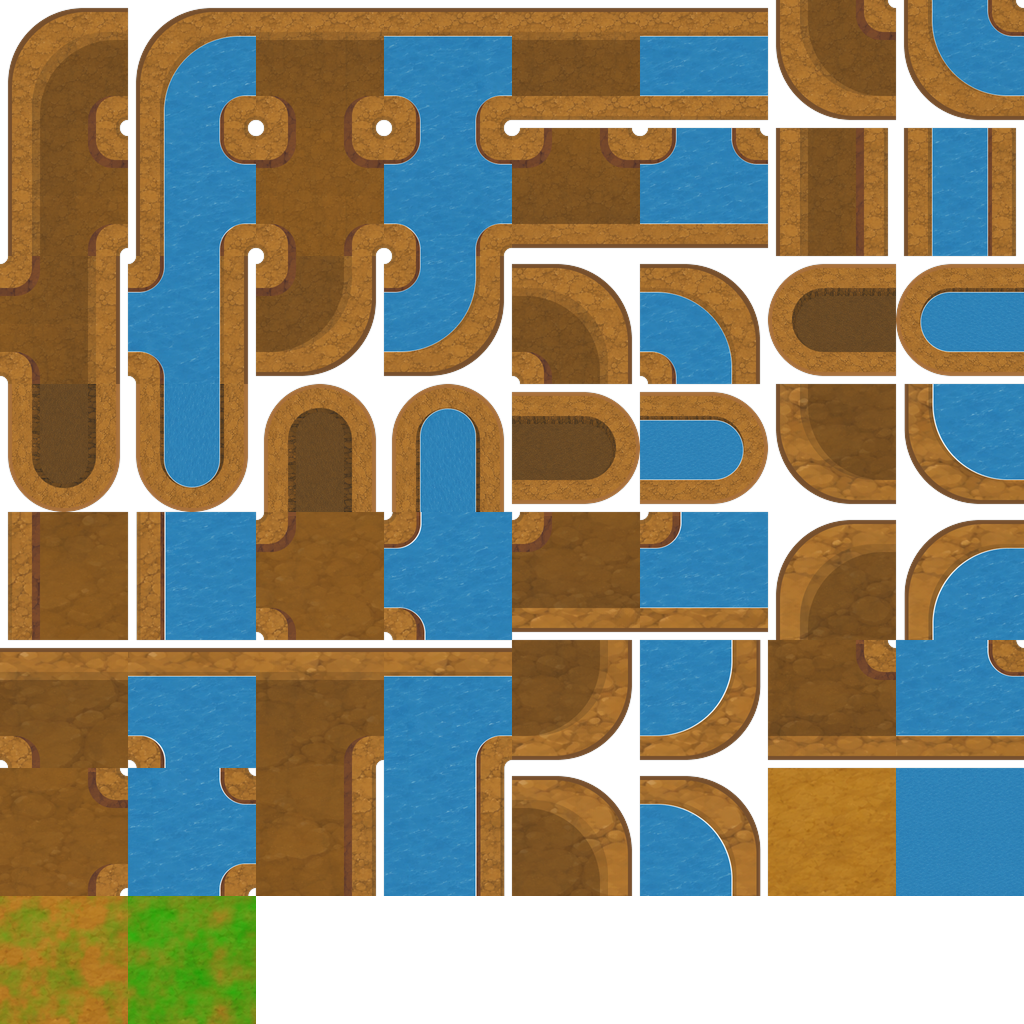
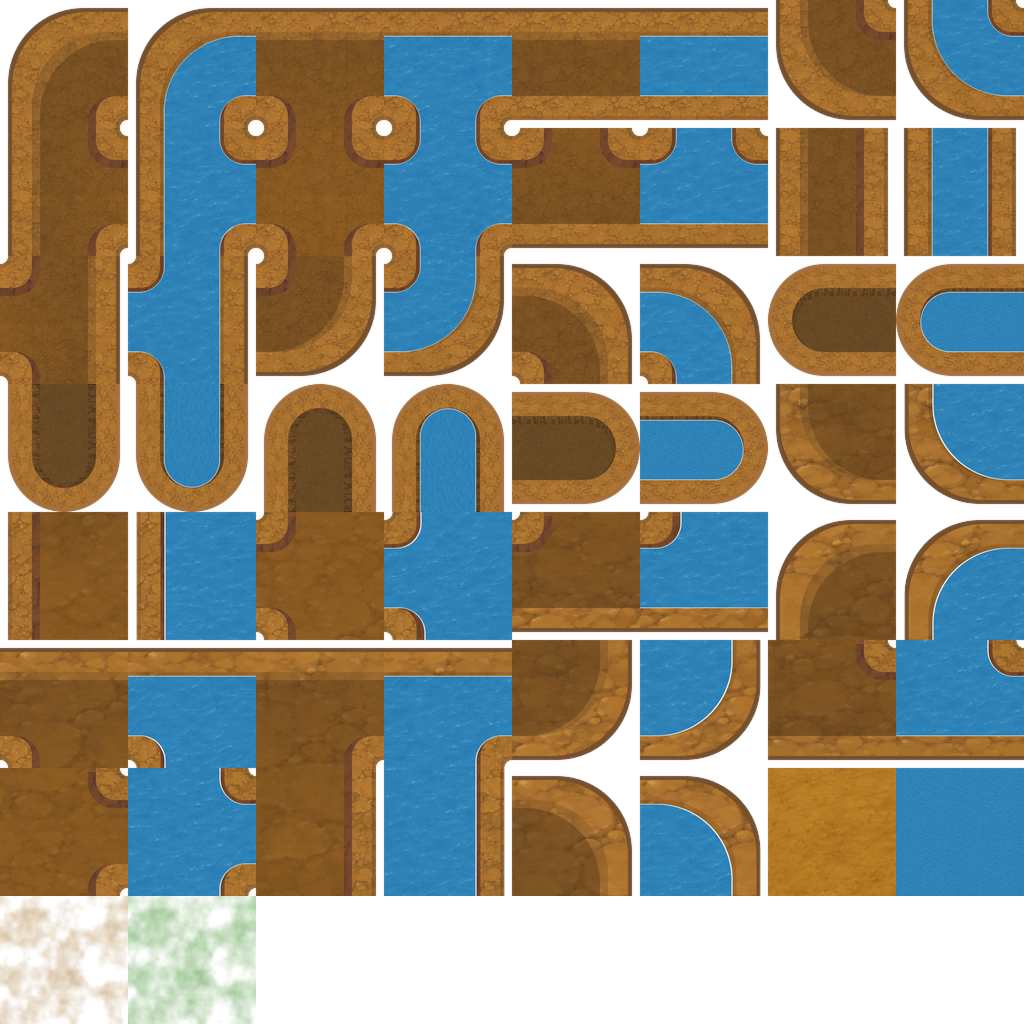
jaya

Changed region(s): [[0.0, 0.875, 0.25, 1.0]]

diff --git a/game.js b/game.js
@@ -856,18 +856,24 @@ console.log(
         // spritesheet frame. Both come from the same sheet, so they batch as
         // one. The main canal (main_canal_dry layer) is NOT drawn here; the
         // flood system reveals it as the auger digs.
+        // The ground pass keeps its sprites, indexed by cell, so a crop can
+        // green the tile under itself as it grows (see _updateCrops). Branch
+        // tiles never change, so that pass stays anonymous.
+        const ground = seg.groundSprites = [];
         for (const [data, depth] of [[g.groundData, 1.4], [g.branchData, 1.5]]) {
+            const isGround = data === g.groundData;
             for (let row = 0; row < g.rows; row++) {
                 for (let col = 0; col < g.cols; col++) {
                     const gid = data[row * g.cols + col];
                     if (!gid) continue;
-                    this._addB(this.add.image(
+                    const spr = this._addB(this.add.image(
                             g.left + (col + 0.5) * g.tile,
                             gTop   + (row + 0.5) * g.tile,
                             'canal_sheet', gid - this.tileFirstGid)
                         // +1px so neighbours overlap and no sub-pixel gap shows.
                         .setDisplaySize(g.tile + 1, g.tile + 1)
                         .setDepth(depth), seg);
+                    if (isGround) ground[row * g.cols + col] = spr;
                 }
             }
         }
@@ -955,9 +961,46 @@ console.log(
                     .setOrigin(0.5, 1).setScale(sc).setDepth(3 + r * 0.001), seg);
                 // `sc` is cached per crop so the stage-change spring knows the
                 // full y-scale to settle back to. Stage 1 spawns hard, unscaled.
-                crops.push({ watch: best, stage: 1, timer: 0, sprite: spr, sc, crop, done: false });
+                // `ground` is this cell's ground tile — never changed itself, but
+                // the anchor the growth overlays are laid on. `ovl` counts them.
+                crops.push({ watch: best, stage: 1, timer: 0, sprite: spr, sc, crop,
+                             ground: (seg.groundSprites || [])[r * g.cols + c] || null,
+                             ovl: 0, done: false });
             }
         }
+    }
+
+    // Begin the overlay due at crop stage `at`, fading it in over `ms`. It is
+    // started one stage EARLY so it lands fully on exactly as that stage
+    // arrives — damp soil creeps in across the seed, grass across the young
+    // plant. Overlays STACK: each is a new sprite just above the last, so damp
+    // stays visible under the grass and nothing is ever replaced.
+    // Called again for a stage already laid (a skipped stage) it just snaps
+    // that one to full rather than adding a second copy.
+    _startCropOverlay(seg, cr, at, o, ms) {
+        if (!cr.ground) return;
+        const done = cr.ovlSpr || (cr.ovlSpr = {});
+        const full = o.alpha !== undefined ? o.alpha : 1;
+        if (done[at]) {                          // already laid
+            if (ms <= 0) {                       // stage passed — finish it now
+                this.tweens.killTweensOf(done[at]);
+                done[at].setAlpha(full);
+            }
+            return;
+        }
+        const gnd = cr.ground;
+        const spr = this._addB(this.add.image(gnd.x, gnd.y, 'canal_sheet', o.frame)
+            .setDisplaySize(gnd.displayWidth, gnd.displayHeight)
+            // Ground sits at 1.4 and the dry branches at 1.5; each overlay slots
+            // between them in the order it was added.
+            .setDepth(1.4 + 0.02 * (++cr.ovl)), seg);
+        const bm = o.blend && Phaser.BlendModes[o.blend];
+        if (bm !== undefined) spr.setBlendMode(bm);
+        done[at] = spr;
+        if (ms <= 0) { spr.setAlpha(full); return; }
+        spr.setAlpha(0);
+        this.tweens.add({ targets: spr, alpha: full, duration: ms, ease: 'Sine.easeIn' });
+        return spr;
     }
 
     // Grow crops whose nearest canal cell has been watered: advance one stage
@@ -968,20 +1011,40 @@ console.log(
         const dt = this._cropT ? Math.min((time - this._cropT) / 1000, 0.1) : 0;
         this._cropT = time;
         if (dt <= 0) return;
-        const growS  = (TM.CROP_GROW_MS || 2000) / 1000;
+        const growMs = TM.CROP_GROW_MS || 2000;   // one stage — also the fade time
+        const growS  = growMs / 1000;
         const stages = TM.CROP_STAGES || 5;
         const wet    = TM.CROP_WET !== undefined ? TM.CROP_WET : 0.15;
         const popFr  = TM.CROP_POP_FROM !== undefined ? TM.CROP_POP_FROM : 0.8;
         const popMs  = TM.CROP_POP_MS   !== undefined ? TM.CROP_POP_MS   : 260;
+        const ovl    = TM.CROP_OVERLAY || null;  // stage → ground overlay to add
         for (const seg of this.segments) {
             if (!seg.crops) continue;
             for (const cr of seg.crops) {
                 if (cr.done || !cr.watch || cr.watch.progress <= wet) continue;
+                // The very first tick after this cell's canal wets: the plant is
+                // still a seed, and that is when the overlay due one stage later
+                // begins its fade, so damp soil arrives exactly as it sprouts.
+                if (ovl && cr.timer === 0 && ovl[cr.stage + 1]) {
+                    this._startCropOverlay(seg, cr, cr.stage + 1, ovl[cr.stage + 1], growMs);
+                }
                 cr.timer += dt;
                 const st = Math.min(stages, 1 + Math.floor(cr.timer / growS));
                 if (st !== cr.stage) {
+                    const from = cr.stage;
                     cr.stage = st;
                     cr.sprite.setFrame(st - 1);         // frame 0 = stage 1
+                    // Overlays fade in ACROSS a stage, not on arrival: entering a
+                    // stage starts the one due at the next. Every crossed stage is
+                    // scanned, so a skipped stage (a long frame, or the level
+                    // running fast) still lays its layer — snapped straight to
+                    // full, since its fade window has already gone by.
+                    if (cr.ground && ovl) {
+                        for (let s = from + 1; s <= st; s++) {
+                            if (ovl[s + 1]) this._startCropOverlay(seg, cr, s + 1, ovl[s + 1], growMs);
+                            if (ovl[s])     this._startCropOverlay(seg, cr, s,     ovl[s],     0);
+                        }
+                    }
                     // Spring the new frame up from a squashed y-scale. Only
                     // reachable for stage 2+, so the seed never animates.
                     if (popFr < 1 && popMs > 0) {

diff --git a/config.js b/config.js
@@ -445,6 +445,23 @@ var CONFIG = {
             // Sprites are bottom-anchored, so this reads as growing upward.
             CROP_POP_FROM: 0.9,     // starting y-scale fraction (1 = no animation)
             CROP_POP_MS:   260,     // spring duration
+            // The ground under a plant changes as it matures. Each entry ADDS a
+            // transparent perlin overlay on top of the map's own ground tile —
+            // nothing is replaced and nothing is removed, so by the last stage a
+            // cell is ground + damp + grass, all three visible. `frame` is a
+            // tilesheet FRAME index (not a map gid); the key is the crop stage
+            // that adds it. Cells with no crop are never touched.
+            //
+            // Blend modes differ on purpose:
+            //   MULTIPLY for damp — wet soil is the SAME soil darkened, so
+            //     multiplying keeps the ground's grain showing through and
+            //     adapts to whatever ground tile sits below it
+            //   NORMAL for grass — grass is new material lying on the soil,
+            //     not a darkening of it, so it should cover rather than tint
+            CROP_OVERLAY: {
+                2: { frame: 56, blend: 'MULTIPLY', alpha: 1 },   // damp soil
+                4: { frame: 57, blend: 'NORMAL',   alpha: 1 },   // grass
+            },
             HEAD_FRAME: 55,         // sheet frame of the plain water texture — the
                                     // flowing head's body is drawn with it so it
                                     // matches the filled canal
